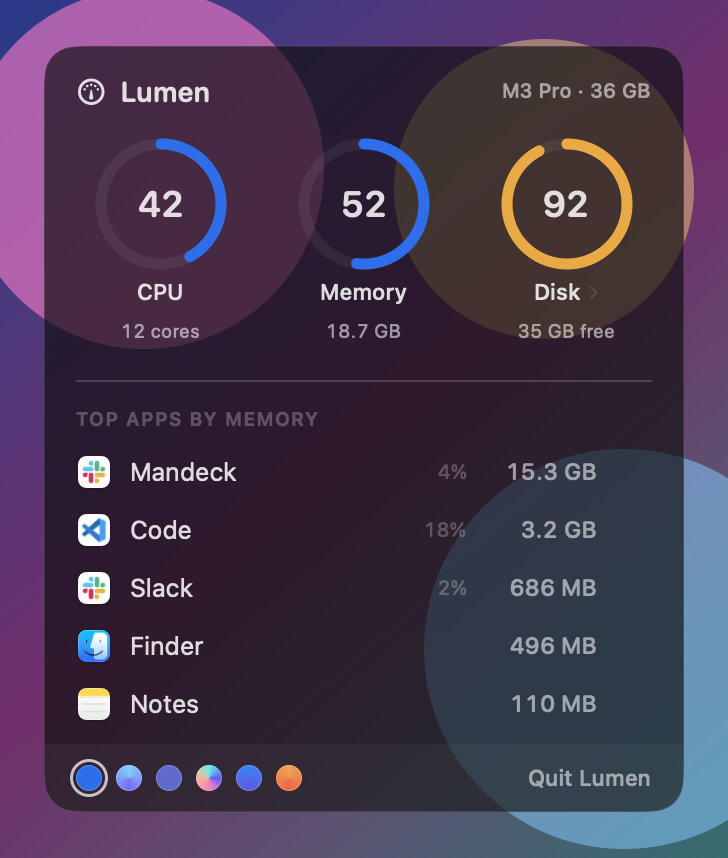
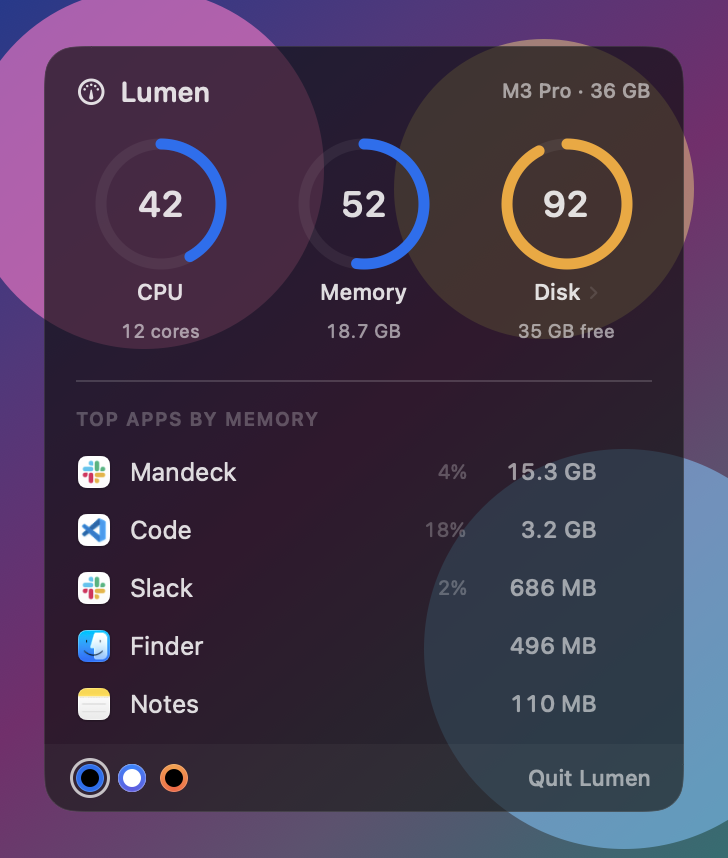
refactor: trim themes to Vercel / Clear / Ember
Keep the three visually-distinct glass themes and drop the near-identical
ones (Obsidian/Linear/Stripe all read as the same indigo-blue). Theme
swatches now show the background tone (black vs white) plus the accent ring
so a dark-blue and a light-blue theme stay distinguishable at a glance.
Removed the exploration-only render modes (--render-rings/-vercel/-brands).

Changed region(s): [[0.0907, 0.8788, 0.4231, 0.9394]]

diff --git a/Sources/Lumen/main.swift b/Sources/Lumen/main.swift
@@ -65,136 +65,6 @@ if let idx = CommandLine.arguments.firstIndex(of: "--render-themes"),
     exit(0)
 }
 
-// Render Linear / Stripe brand palettes on black glass: `--render-brands <dir>`.
-if let idx = CommandLine.arguments.firstIndex(of: "--render-brands"),
-   idx + 1 < CommandLine.arguments.count {
-    let dir = CommandLine.arguments[idx + 1]
-    let variants: [(String, [UInt32])] = [
-        ("linear-indigo", [0x5E6AD2]),
-        ("linear-gradient", [0x5E6AD2, 0xB57BFF]),
-        ("stripe-blurple", [0x635BFF]),
-        ("stripe-gradient", [0x00D4FF, 0x635BFF, 0xFF61C3]),
-        ("stripe-flow", [0x11EFE3, 0x635BFF, 0xFF80B5, 0xFFB199]),
-    ]
-    MainActor.assumeIsolated {
-        let app = NSApplication.shared
-        app.setActivationPolicy(.accessory)
-        for (name, hexes) in variants {
-            let theme = Theme.obsidian.recolored(hexes.map { Color(hex: $0) })
-            let monitor = Monitor()
-            monitor.loadPreviewData()
-            let preview = ZStack {
-                WallpaperBackdrop()
-                PanelView(monitor: monitor, themeStore: ThemeStore(theme: theme), onQuit: {}).padding(22)
-            }
-            .frame(width: 364, height: 429)
-            let host = NSHostingView(rootView: preview)
-            host.frame = NSRect(x: 0, y: 0, width: 364, height: 429)
-            let window = NSWindow(contentRect: host.frame, styleMask: [.borderless],
-                                  backing: .buffered, defer: false)
-            window.contentView = host
-            window.setFrameOrigin(NSPoint(x: -10_000, y: -10_000))
-            window.orderFront(nil)
-            RunLoop.main.run(until: Date().addingTimeInterval(0.5))
-            if let rep = host.bitmapImageRepForCachingDisplay(in: host.bounds) {
-                host.cacheDisplay(in: host.bounds, to: rep)
-                if let data = rep.representation(using: .png, properties: [:]) {
-                    try? data.write(to: URL(fileURLWithPath: "\(dir)/\(name).png"))
-                    print("wrote \(dir)/\(name).png")
-                }
-            }
-        }
-    }
-    exit(0)
-}
-
-// Render Vercel/Geist ring treatments on black glass: `--render-vercel <dir>`.
-if let idx = CommandLine.arguments.firstIndex(of: "--render-vercel"),
-   idx + 1 < CommandLine.arguments.count {
-    let dir = CommandLine.arguments[idx + 1]
-    let variants: [(String, [Color])] = [
-        ("gradient", [Color(hex: 0x0070F3), Color(hex: 0x7928CA), Color(hex: 0xFF0080)]),
-        ("blue", [Color(hex: 0x0070F3)]),
-        ("mono", [Color(hex: 0xEDEDED), Color(hex: 0xA1A1A1)]),
-        ("cyan-pink", [Color(hex: 0x00DFD8), Color(hex: 0xFF0080)]),
-    ]
-    MainActor.assumeIsolated {
-        let app = NSApplication.shared
-        app.setActivationPolicy(.accessory)
-        for (name, stops) in variants {
-            let theme = Theme.vercel.recolored(stops)
-            let monitor = Monitor()
-            monitor.loadPreviewData()
-            let preview = ZStack {
-                WallpaperBackdrop()
-                PanelView(monitor: monitor, themeStore: ThemeStore(theme: theme), onQuit: {}).padding(22)
-            }
-            .frame(width: 364, height: 429)
-            let host = NSHostingView(rootView: preview)
-            host.frame = NSRect(x: 0, y: 0, width: 364, height: 429)
-            let window = NSWindow(contentRect: host.frame, styleMask: [.borderless],
-                                  backing: .buffered, defer: false)
-            window.contentView = host
-            window.setFrameOrigin(NSPoint(x: -10_000, y: -10_000))
-            window.orderFront(nil)
-            RunLoop.main.run(until: Date().addingTimeInterval(0.5))
-            if let rep = host.bitmapImageRepForCachingDisplay(in: host.bounds) {
-                host.cacheDisplay(in: host.bounds, to: rep)
-                if let data = rep.representation(using: .png, properties: [:]) {
-                    try? data.write(to: URL(fileURLWithPath: "\(dir)/vercel-\(name).png"))
-                    print("wrote \(dir)/vercel-\(name).png")
-                }
-            }
-        }
-    }
-    exit(0)
-}
-
-// Render Obsidian with a palette of ring accent colours: `--render-rings <dir>`.
-if let idx = CommandLine.arguments.firstIndex(of: "--render-rings"),
-   idx + 1 < CommandLine.arguments.count {
-    let dir = CommandLine.arguments[idx + 1]
-    let palette: [(String, UInt32, UInt32)] = [
-        ("cyan", 0x64D2FF, 0x5E9DFF),
-        ("blue", 0x0A84FF, 0x5E5CE6),
-        ("violet", 0xA78BFF, 0x64D2FF),
-        ("magenta", 0xFF5AF2, 0x64D2FF),
-        ("mint", 0x30D158, 0x39FFB0),
-        ("amber", 0xFFB340, 0xFF7A1F),
-        ("white", 0xEAEAF0, 0xC8CCD6),
-    ]
-    MainActor.assumeIsolated {
-        let app = NSApplication.shared
-        app.setActivationPolicy(.accessory)
-        for (name, a, b) in palette {
-            let theme = Theme.obsidian.recolored([Color(hex: a), Color(hex: b)])
-            let monitor = Monitor()
-            monitor.loadPreviewData()
-            let preview = ZStack {
-                WallpaperBackdrop()
-                PanelView(monitor: monitor, themeStore: ThemeStore(theme: theme), onQuit: {}).padding(22)
-            }
-            .frame(width: 364, height: 429)
-            let host = NSHostingView(rootView: preview)
-            host.frame = NSRect(x: 0, y: 0, width: 364, height: 429)
-            let window = NSWindow(contentRect: host.frame, styleMask: [.borderless],
-                                  backing: .buffered, defer: false)
-            window.contentView = host
-            window.setFrameOrigin(NSPoint(x: -10_000, y: -10_000))
-            window.orderFront(nil)
-            RunLoop.main.run(until: Date().addingTimeInterval(0.5))
-            if let rep = host.bitmapImageRepForCachingDisplay(in: host.bounds) {
-                host.cacheDisplay(in: host.bounds, to: rep)
-                if let data = rep.representation(using: .png, properties: [:]) {
-                    try? data.write(to: URL(fileURLWithPath: "\(dir)/ring-\(name).png"))
-                    print("wrote \(dir)/ring-\(name).png")
-                }
-            }
-        }
-    }
-    exit(0)
-}
-
 // Headless UI render: `Lumen --render-panel <out.png> [themeId]` renders the
 // dropdown panel with representative data — verify the design without Screen
 // Recording permission.
@@ -202,7 +72,7 @@ if let idx = CommandLine.arguments.firstIndex(of: "--render-panel"),
    idx + 1 < CommandLine.arguments.count {
     let outPath = CommandLine.arguments[idx + 1]
     let theme = idx + 2 < CommandLine.arguments.count
-        ? Theme.byId(CommandLine.arguments[idx + 2]) : Theme.obsidian
+        ? Theme.byId(CommandLine.arguments[idx + 2]) : Theme.vercel
     MainActor.assumeIsolated {
         let app = NSApplication.shared
         app.setActivationPolicy(.accessory)

diff --git a/Sources/Lumen/Theme.swift b/Sources/Lumen/Theme.swift
@@ -44,37 +44,12 @@ struct Theme: Identifiable {
         ringStops: [Color(hex: 0x0A84FF), Color(hex: 0x5E5CE6)],
         warn: Color(hex: 0xFF9500), danger: Color(hex: 0xFF3B30))
 
-    /// Deep black glass — the "black hole" / Grok-dark look.
-    static let obsidian = Theme(
-        id: "obsidian", name: "Obsidian", tagline: "Black-hole glass",
-        scheme: .dark, wash: Color.black.opacity(0.34),
-        accent: Color(hex: 0x64D2FF), accent2: Color(hex: 0x7C6CFF),
-        ringStops: [Color(hex: 0x64D2FF), Color(hex: 0x7C6CFF)],
-        warn: Color(hex: 0xFFD60A), danger: Color(hex: 0xFF453A))
-
     /// Vercel / Geist: pure-black glass, single signature blue ring. (Default.)
     static let vercel = Theme(
         id: "vercel", name: "Vercel", tagline: "Geist black + signature blue",
         scheme: .dark, wash: Color.black.opacity(0.44),
         accent: Color(hex: 0x0070F3), accent2: Color(hex: 0x3D9DFF),
         ringStops: [Color(hex: 0x0070F3)],
-        warn: Color(hex: 0xF5A623), danger: Color(hex: 0xEE0000))
-
-    /// Linear: black glass, refined indigo ring.
-    static let linear = Theme(
-        id: "linear", name: "Linear", tagline: "Black glass + indigo",
-        scheme: .dark, wash: Color.black.opacity(0.42),
-        accent: Color(hex: 0x5E6AD2), accent2: Color(hex: 0x8B5CF6),
-        ringStops: [Color(hex: 0x5E6AD2)],
-        warn: Color(hex: 0xF5A623), danger: Color(hex: 0xEE0000))
-
-    /// Stripe: black glass, the signature flowing multi-colour gradient ring.
-    static let stripe = Theme(
-        id: "stripe", name: "Stripe", tagline: "Black glass + flow gradient",
-        scheme: .dark, wash: Color.black.opacity(0.42),
-        accent: Color(hex: 0x635BFF), accent2: Color(hex: 0xFF80B5),
-        ringStops: [Color(hex: 0x11EFE3), Color(hex: 0x635BFF),
-                    Color(hex: 0xFF80B5), Color(hex: 0xFFB199)],
         warn: Color(hex: 0xF5A623), danger: Color(hex: 0xEE0000))
 
     // MARK: Warm tinted glass
@@ -86,7 +61,7 @@ struct Theme: Identifiable {
         ringStops: [Color(hex: 0xFF9D3D), Color(hex: 0xFF5E3A)],
         warn: Color(hex: 0xFFC24D), danger: Color(hex: 0xFF4D3D))
 
-    static let all: [Theme] = [vercel, obsidian, linear, stripe, clear, ember]
+    static let all: [Theme] = [vercel, clear, ember]
     static func byId(_ id: String) -> Theme { all.first { $0.id == id } ?? vercel }
 
     /// Same theme with different ring colours (gradient = the stops given).

diff --git a/Sources/Lumen/PanelView.swift b/Sources/Lumen/PanelView.swift
@@ -191,14 +191,18 @@ private struct ThemeSwatch: View {
 
     var body: some View {
         Button(action: action) {
-            Circle()
-                .fill(theme.ringFill(45))
-                .frame(width: 13, height: 13)
-                .overlay(Circle().strokeBorder(.primary.opacity(0.22), lineWidth: 0.5))
-                .overlay(
-                    Circle().strokeBorder(.primary.opacity(selected ? 0.85 : 0), lineWidth: 1.5)
-                        .padding(-3)
-                )
+            ZStack {
+                // Background tone (black vs white) + accent ring — conveys the
+                // whole theme, so a dark-blue and a light-blue theme stay distinct.
+                Circle().fill(theme.scheme == .light ? Color.white : Color.black)
+                Circle().strokeBorder(theme.ringFill(45), lineWidth: 2.5)
+            }
+            .frame(width: 14, height: 14)
+            .overlay(Circle().strokeBorder(.primary.opacity(0.22), lineWidth: 0.5))
+            .overlay(
+                Circle().strokeBorder(.primary.opacity(selected ? 0.85 : 0), lineWidth: 1.5)
+                    .padding(-3)
+            )
         }
         .buttonStyle(.plain)
         .help(theme.name)

diff --git a/README.md b/README.md
@@ -44,14 +44,14 @@ top memory-hungry apps, each with its real icon. Quit an app with the ⏏ button
 ## Themes
 
 Lumen is built on real translucency (frosted "liquid glass" that samples your
-desktop). Six built-in themes, switchable from the swatches in the panel footer
+desktop). Three built-in themes, switchable from the swatches in the panel footer
 and remembered across launches:
 
 ![Lumen themes](docs/themes.png)
 
-**Vercel** (default) · **Obsidian** · **Linear** · **Stripe** (signature flow
-gradient) · **Clear** (frosted white) · **Ember**. Every theme keeps the same
-severity signal — rings and bars warm to amber, then red, as load climbs.
+**Vercel** (default, Geist black + signature blue) · **Clear** (frosted white) ·
+**Ember** (amber). Every theme keeps the same severity signal — rings and bars
+warm to amber, then red, as load climbs.
 
 ## Design principles
 